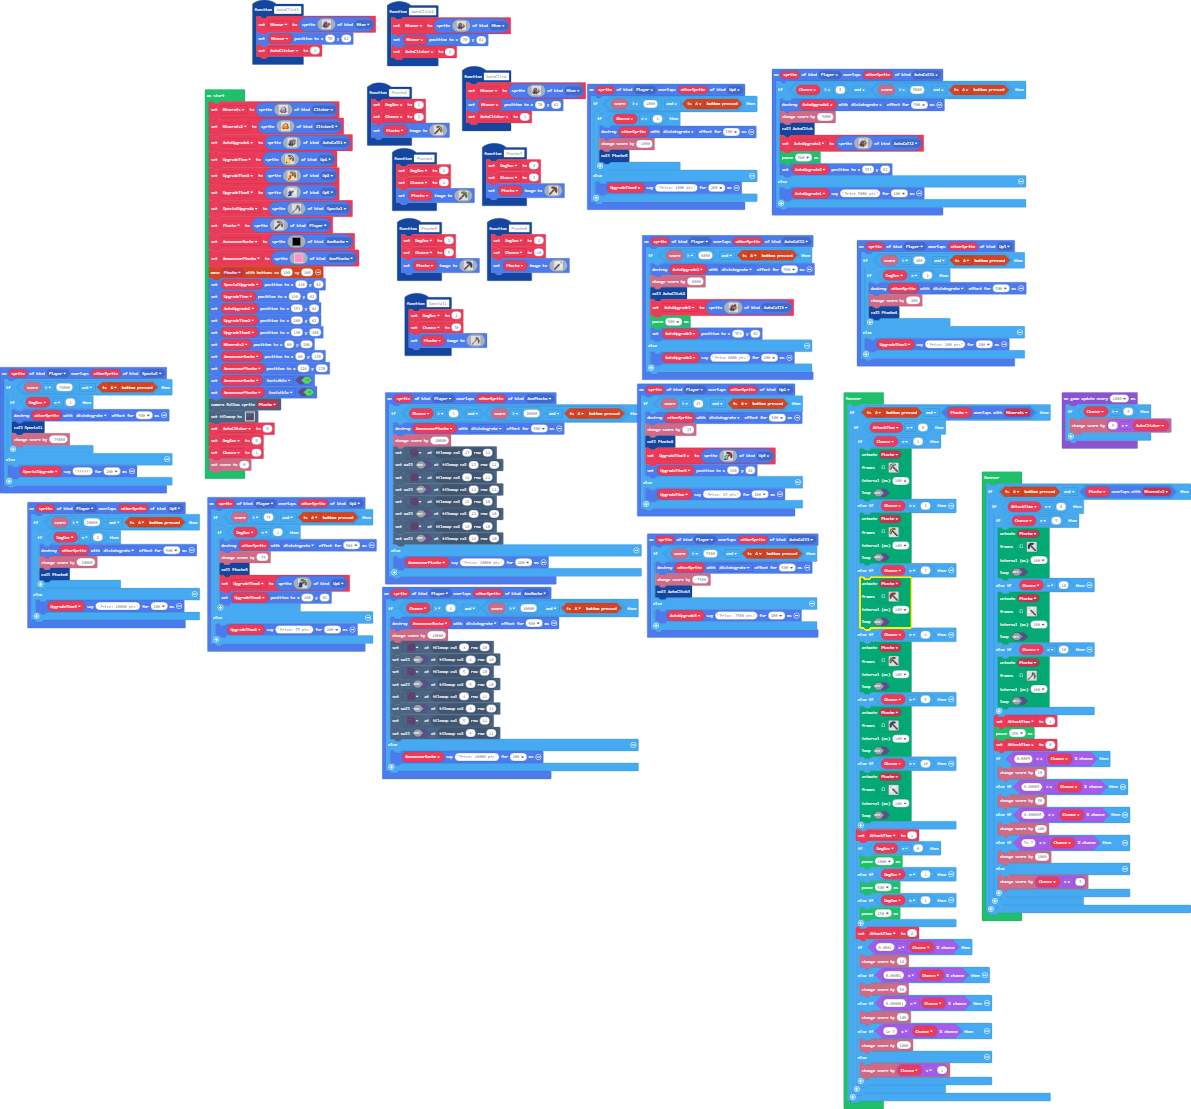
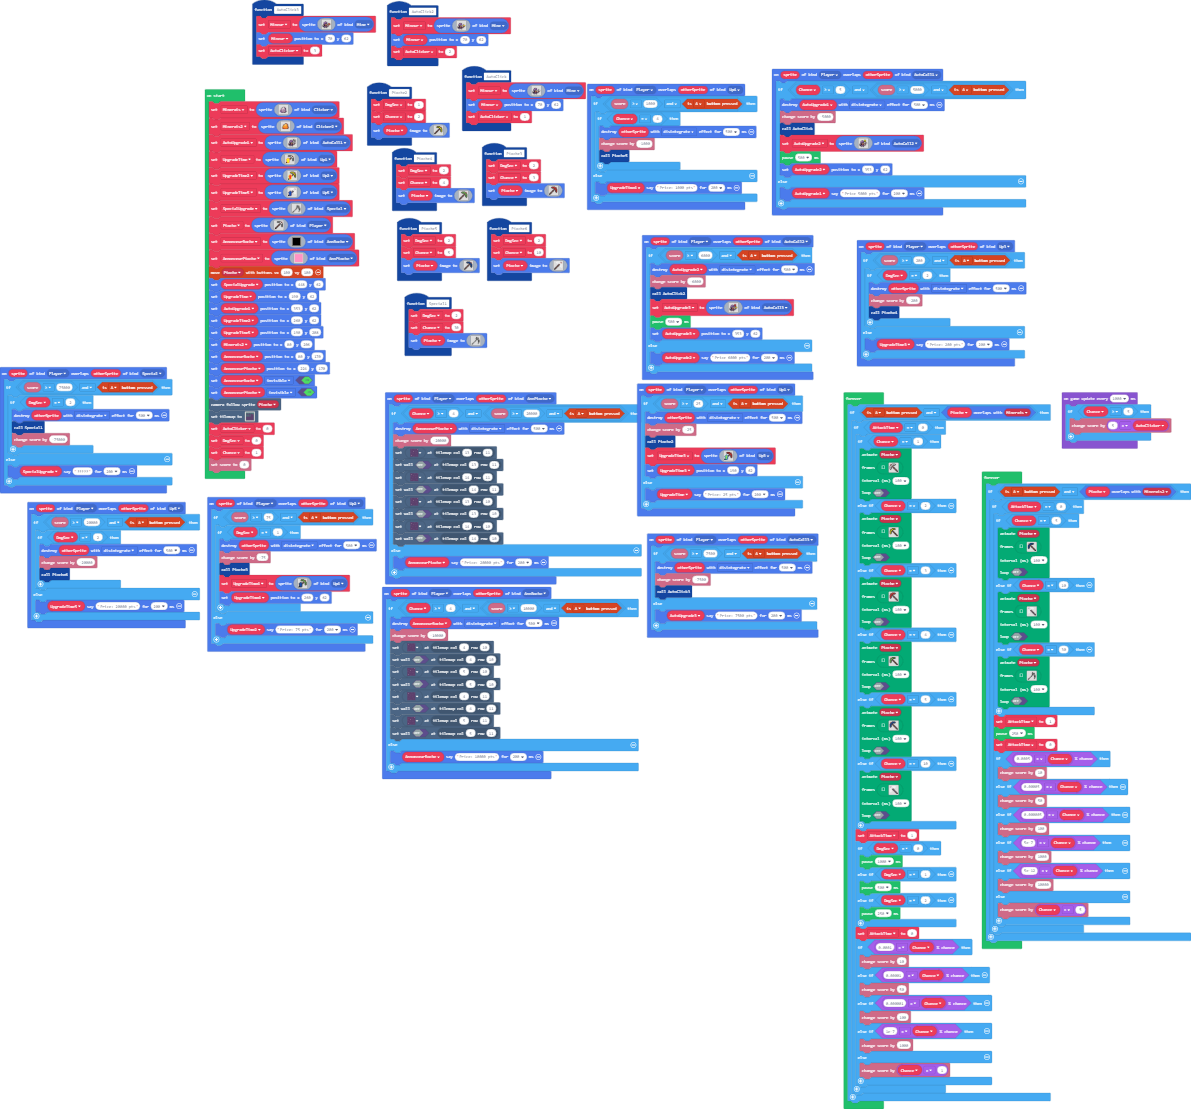
Update main.blocks, main.ts

Changed region(s): [[0.8077, 0.7665, 1.0, 0.8584]]

diff --git a/main.ts b/main.ts
@@ -1126,36 +1126,36 @@ f 1 1 f f . . . . . . . . . . . . . . . . . . . . . . . . .
 f 1 1 f . . . . . . . . . . . . . . . . . . . . . . . . . . 
 f f f f . . . . . . . . . . . . . . . . . . . . . . . . . . 
 `,img`
-. . . . . . . . . . . . . . . . . . . . . . . . . . . . . . 
-. . . . . . . . . . . . . . . . . . . . . . . . . . . . . . 
-. . . . . . . . . . . . . . . . . . . . . . . . . . . . . . 
-. . . . . . . . . . . . . . . . . . . . . . . . . . . . . . 
-. . . . . . . . . . . . . . . . . . . . . . . . . . . . . . 
-. . . . . . . . . . . . . . . . . . . . . . . . . . . . . . 
-. . . . . . . . . . . . . . . . . . . . . . . . . . . . . . 
-. . . . . . . . . . . . . . . . . . . . . . . . . . . . . . 
-. . . . . . . . . . . . . . . . . . . . . . . . . . . . . . 
-. . . . . . . . . . . . . . . . . . . . . . . . . . . . . . 
-. . . . . . . . . . . . . . . . . . . . . . . . . . . . . . 
-. . . . . . . . . . . . . . . . . . . . . . . . . . . . . . 
-. . . . . . . . . . . . . . . . . . . . . . . . . . . . . . 
-. . . . . . . . . . . . . . . . . . . . . . . . . . . . . . 
-. . . . . . . . . . . . . . . . . . . . . . . . . . . . . . 
-. . . . . . . . . . . . . . . . . . . . . . . . . . . . . . 
-. . . . . . . . . . . . . . . . . . . . . . . . . . . . . . 
-. . . . . . . . . . . . . . . . . . . . . . . . . . . . . . 
-. . . . . . . . . . . . . . . . . . . . . . . . . . . . . . 
-. . . . . . . . . . . . . . . . . . . . . . . . . . . . . . 
-. . . . . . . . . . . . . . . . . . . . . . . . . . . . . . 
-. . . . . . . . . . . . . . . . . . . . . . . . . . . . . . 
-. . . . . . . . . . . . . . . . . . . . . . . . . . . . . . 
-. . . . . . . . . . . . . . . . . . . . . . . . . . . . . . 
-. . . . . . . . . . . . . . . . . . . . . . . . . . . . . . 
-. . . . . . . . . . . . . . . . . . . . . . . . . . . . . . 
-. . . . . . . . . . . . . . . . . . . . . . . . . . . . . . 
-. . . . . . . . . . . . . . . . . . . . . . . . . . . . . . 
-. . . . . . . . . . . . . . . . . . . . . . . . . . . . . . 
-. . . . . . . . . . . . . . . . . . . . . . . . . . . . . . 
+. . . . . . . . . . . . . . . f f f f . . . . . . . . . . . 
+. . . . . . . . . . . . f f f 1 1 1 1 f f f . . . . . . . . 
+. . . . . . . . . . f f 1 1 1 f f f f 1 1 1 f f . . . . . . 
+. . . . . . . . . f 1 1 1 f f f f f f f f f 1 1 f . . . . . 
+. . . . . f f . f 1 f f 1 1 f f f f f f f f f f 1 f . . . . 
+. . . . f 1 1 f 1 1 1 f f f f f f f f . . . . f f 1 f . . . 
+. . . f 1 1 f f f f f 1 f f f f . . . . . . . . . f f . . . 
+. . . f 1 f f 1 1 f f 1 f f . . . . . . . . . . . . f . . . 
+. . . . f f f f 1 1 f f f . . . . . . . . . . . . . . . . . 
+. . . . . f 1 1 f f 1 f . . . . . . . . . . . . . . . . . . 
+. . . . f 1 f f f 1 1 f . . . . . . . . . . . . . . . . . . 
+. . . f f f f f f 1 f 1 f . . . . . . . . . . . . . . . . . 
+. . f f f f f . . f f f 1 f . . . . . . . . . . . . . . . . 
+. . f f . . . . f f f f f 1 f . . . . . . . . . . . . . . . 
+. . . . . . . f f f f . . f f f f . . . . . . . . . . . . . 
+. . . . . . . f f . . . . . f 1 f f . . . . . . . . . . . . 
+. . . . . . . . . . . . . . f f 1 f . . . . . . . . . . . . 
+. . . . . . . . . . . . . . . f f f f . . . . . . . . . . . 
+. . . . . . . . . . . . . . . . . f 1 f . . . . . . . . . . 
+. . . . . . . . . . . . . . . . . . f 1 f . . . . . . . . . 
+. . . . . . . . . . . . . . . . . . . f 1 f . . . . . . . . 
+. . . . . . . . . . . . . . . . . . . . f 1 f . . . . . . . 
+. . . . . . . . . . . . . . . . . . . . . f 1 f . . . . . . 
+. . . . . . . . . . . . . . . . . . . . . . f 1 f . . . . . 
+. . . . . . . . . . . . . . . . . . . . . . . f 1 f . . . . 
+. . . . . . . . . . . . . . . . . . . . . . . . f f f f . . 
+. . . . . . . . . . . . . . . . . . . . . . . . . f 1 f f f 
+. . . . . . . . . . . . . . . . . . . . . . . . . f f 1 1 f 
+. . . . . . . . . . . . . . . . . . . . . . . . . . f 1 1 f 
+. . . . . . . . . . . . . . . . . . . . . . . . . . f f f f 
 `],
                 100,
                 false
@@ -1172,6 +1172,8 @@ f f f f . . . . . . . . . . . . . . . . . . . . . . . . . .
                 info.changeScoreBy(100)
             } else if (Math.percentChance(5e-7 * Chance)) {
                 info.changeScoreBy(1000)
+            } else if (Math.percentChance(5e-12 * Chance)) {
+                info.changeScoreBy(10000)
             } else {
                 info.changeScoreBy(Chance * 5)
             }
